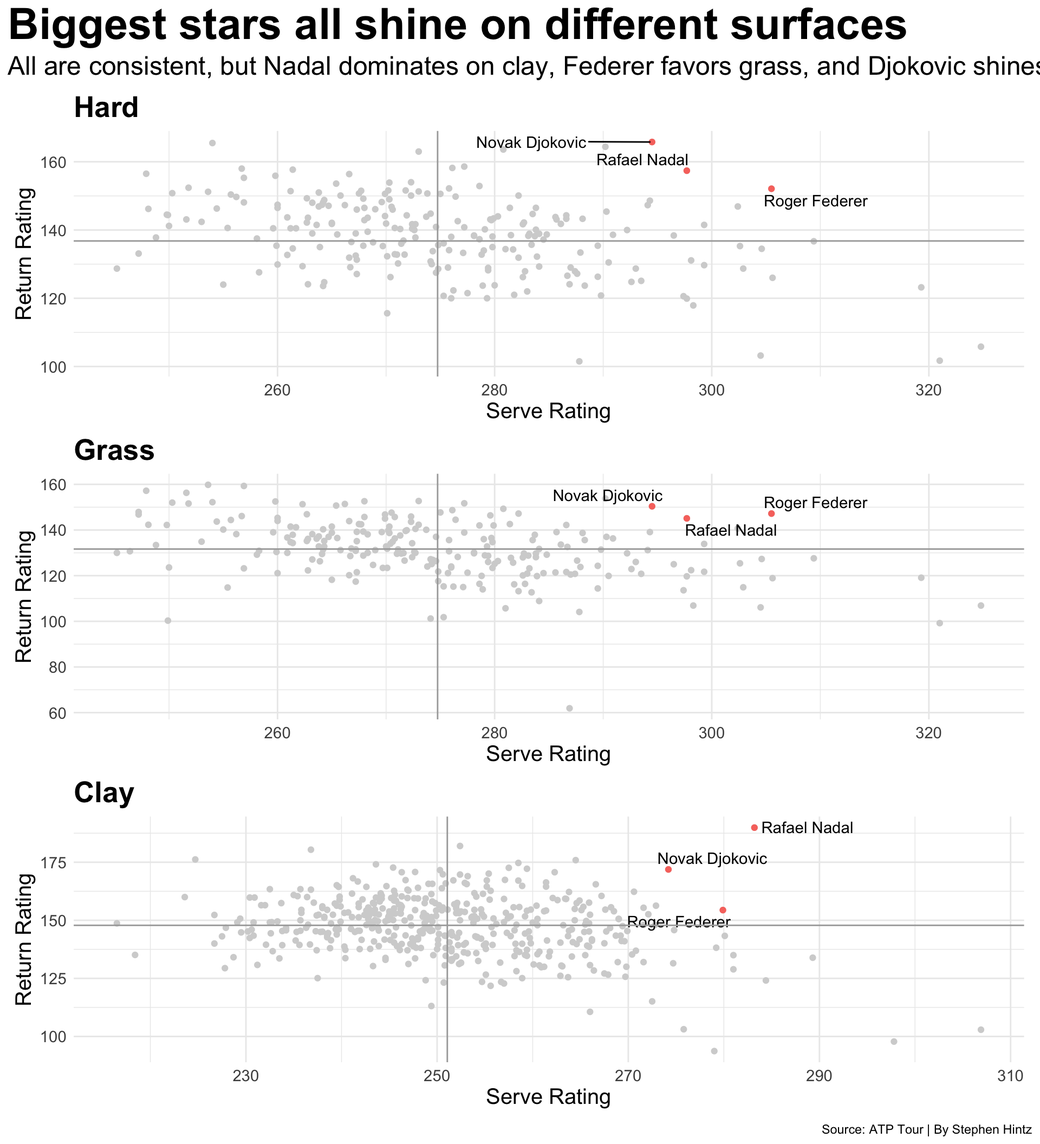
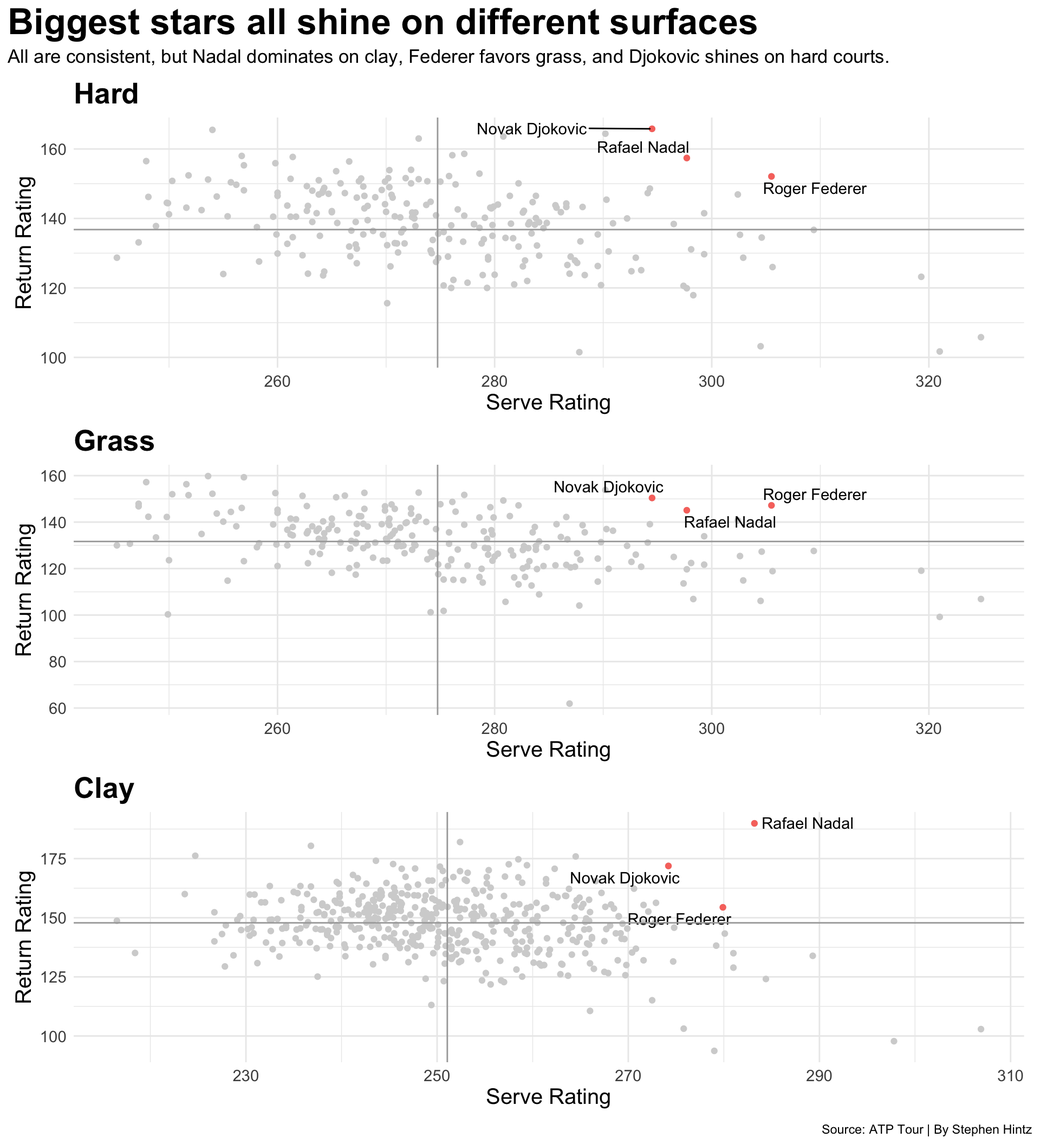
new changes again

diff --git a/2021/04/04/who-is-the-real-tennis-goat/index.html b/2021/04/04/who-is-the-real-tennis-goat/index.html
@@ -77,9 +77,10 @@
 
 
 <p>It’s a question often debated in sports: who’s the “GOAT”?</p>
-<p>So often this prompt is investigated in the context of basketball with LeBron James versus Michael Jordan, or football with Tom Brady or some other historical quarterback. The problem with these? No one will ever know because they never played head-to-head, and never will in their primes.</p>
-<p>That’s why the time we’re living in right now for tennis is so unique. Arguably the three best tennis men’s players of all time are all playing and are only four years apart in age. This scenario opens the door for a productive conversation to find who is truly the greatest men’s tennis player of all time.</p>
-<p>Furthermore, tennis is an individual sport. Often in other “GOAT” discussions, there is the argument that teammates aided in the success of some of the stars. In tennis, it is just the player who does all the work and only gets assistance from the crowd and his/her coach.</p>
+<p>So often this prompt is investigated in the context of basketball with LeBron James versus Michael Jordan, or football with Tom Brady or some other historical quarterback.</p>
+<p>The problem with these? No one will ever know because they never played head-to-head, and never will in their primes.</p>
+<p>Furthermore, tennis is an individual sport. Often in “GOAT” discussions, the argument is that teammates contribute to the success of some players. But tennis is strictly individual which makes it even clearer to study.</p>
+<p>That’s why the time we’re living in right now for tennis is so unique. Arguably the three best men’s tennis players of all time are all playing and are only four years apart in age. This scenario opens the door for a productive conversation to find who is truly the greatest men’s tennis player of all time.</p>
 <p>Here, I will take an in-depth look at the numbers to determine who is the GOAT of men’s tennis.</p>
 <pre class="r"><code>library(tidyverse)</code></pre>
 <pre><code>## ── Attaching packages ─────────────────────────────────────── tidyverse 1.3.0 ──</code></pre>
@@ -147,17 +148,17 @@ library(cowplot)</code></pre>
 ##   AvgReturn
 ##       &lt;dbl&gt;
 ## 1      139.</code></pre>
-<p>I will combine the serve and return ratings into one data set to make a scatterplot so I joined my data set for serve rating and return rating into a set called “servereturn”.</p>
+<p>I will combine the serve and return ratings into one data set to make a scatterplot. I will join my two data sets into a set called ‘servereturn’.</p>
 <pre class="r"><code>servereturn &lt;- returnleadersall %&gt;% left_join(serveleadersall)</code></pre>
 <pre><code>## Joining, by = c(&quot;Player&quot;, &quot;Surface&quot;)</code></pre>
-<p>To separate the ‘Big Three’ from the rest of the pack I will make a list of just Roger Federer, Rafael Nadal, and Novak Djokovic. Then, I’m going to filter out their stats from the list of every player’s serve and return ratings, to help me highlight their excellence.</p>
+<p>To separate the Big Three from everyone else, I will make a list of just Roger Federer, Rafael Nadal, and Novak Djokovic. Then, I’m going to filter out their stats from the list of every player’s serve and return ratings, to help me highlight their excellence.</p>
 <pre class="r"><code>Big3 &lt;- c(&quot;Rafael Nadal&quot;, &quot;Novak Djokovic&quot;, &quot;Roger Federer&quot;)</code></pre>
 <pre class="r"><code>B3 &lt;- servereturn %&gt;% filter(Player %in% Big3)</code></pre>
-<p>I’m interested in looking at where the ‘Big Three’ stand in comparison to everyone else who has their stats in my database. To show this, I’m going to make a scatterplot with every player’s data, and I will highlight only Djokovic, Nadal, and Federer.</p>
-<p>I’m going to put serve rating on the x-axis and return rating on the y-axis. I also want to include the averages I found earlier as the vertical line on the x-axis to represent average serve rating and the horizontal line on the y-axis to represent average return rating.</p>
-<p>Reminder:
-Serve rating=(% 1st Serve Landed, % 1st Serve Points Won, % 2nd Serve Points Won, % Service Games Won + Average Aces per Match - Average Double Faults per Match)
-Return Rating=(% 1st Serve Return Points won + % 2nd Serve Return Points won + % Return Games Won + % Break Points Converted)</p>
+<p>I’m interested in looking at where the ‘Big Three’ stands in comparison to everyone else who has their stats in my database. To show this, I’m going to make a scatterplot with every player’s data, and I will highlight only Djokovic, Nadal, and Federer.</p>
+<p>I’m going to put the serve rating on the x-axis and the return rating on the y-axis. I also want to include the averages I found earlier as the vertical line on the x-axis to represent average serve rating and the horizontal line on the y-axis to represent average return rating.</p>
+<p>Reminder:</p>
+<p>Serve rating = (% 1st Serve Landed, % 1st Serve Points Won, % 2nd Serve Points Won, % Service Games Won + Average Aces per Match - Average Double Faults per Match)</p>
+<p>Return Rating = (% 1st Serve Return Points won + % 2nd Serve Return Points won + % Return Games Won + % Break Points Converted)</p>
 <pre class="r"><code>ggplot() + 
   geom_point(data=servereturn, aes(x=`Serve Rating`, y=`Return Rating`), color=&quot;light grey&quot;) +
   geom_point(data=B3, aes(x=`Serve Rating`, y=`Return Rating`, color= &quot;red&quot;)) +
@@ -184,7 +185,7 @@ Bad Return&quot;), color=&quot;blue&quot;) +
 <p><img src="/2021/04/04/who-is-the-real-tennis-goat/index_files/figure-html/unnamed-chunk-9-1.png" width="672" />
 We see a few important pieces from this chart. The first is that to be a great player, you must have a good serve and return game. There are many players who rank high in either serve or return alone, but they are left out of the “good serve, good return” quadrant because they lack in one area.</p>
 <p>We also see that no one even comes close to the ‘Big Three’ when it comes to both serve and return rating. Federer has the best serve of the three but lacks in return rating compared to Djokovic and Nadal.
-Additionally, Nadal has both a better serve and return than Djokovic does with points out that he is the best all-around player.</p>
+Additionally, Nadal has both a better serve and return than Djokovic does, which points out that he is the best all-around player.</p>
 <p>Now, let’s take a closer look at who ranks in the top 10 all-time in cumulative serve-return rating. I will do this by adding every player’s serve rating and return rating and creating a top 10 list.</p>
 <pre class="r"><code>servereturntop &lt;- servereturn %&gt;% mutate(ServePlusReturn = (`Serve Rating` + `Return Rating`)) %&gt;% top_n(10)</code></pre>
 <pre><code>## Selecting by ServePlusReturn</code></pre>
@@ -194,7 +195,7 @@ Additionally, Nadal has both a better serve and return than Djokovic does with p
     cols = -Player,
     names_to=&quot;Type&quot;, 
     values_to=&quot;Rating&quot;) -&gt; servereturnchart</code></pre>
-<p>I’m interested in seeing how the current three stack up against all-time greats such as Pete Sampras, Andre Agassi, and others, so this top 10 chart will show me the best players based on career statistics on all surfaces.</p>
+<p>I’m interested in seeing how the current three stacks up against all-time greats such as Pete Sampras, Andre Agassi, and others, so this top 10 chart will show me the best players based on career statistics on all surfaces.</p>
 <pre class="r"><code>ggplot(servereturnchart, aes(x=reorder(Player, Rating), weight=Rating, fill=Type)) + 
   geom_bar() + 
   coord_flip() + labs(x=&quot;Player&quot;, y=&quot;Cumulative Serve-Return Rating&quot;, title=&quot;The &#39;Big Three&#39; does it all the best, historically &quot;, subtitle=&quot;Among all-time tennis legends, the &#39;Big Three&#39; sit at the top in \ncumulative serve-return ratings.&quot;, caption=&quot;Source: ATP Tour | By Stephen Hintz&quot;) +
@@ -211,7 +212,8 @@ Additionally, Nadal has both a better serve and return than Djokovic does with p
 <p><img src="/2021/04/04/who-is-the-real-tennis-goat/index_files/figure-html/unnamed-chunk-12-1.png" width="672" />
 Sure enough, we see that the current three take the top three spots all time, with Nadal leading. That helps Nadal’s case for being the best of all time, as we already saw he looked to be the best all-around for the previous graphic.</p>
 <p>Another important thing to note is that a majority of players on this list do not have the most overpowering serves, but they do excel at their return game.</p>
-<p>What’s even more outstanding about the greatness of the Big Three? They are putting up these historical numbers while facing the best competition there ever has been. Half of the players on this list are current players (Juan Martin del Potro, and Andy Murray, in addition to the big three), and Andy Roddick (retired 2012) played against the Big Three for a majority of their careers as well. This means that six of the top 10 players all-time played in the 21st century, so there is no doubt that the level of competition was great enough to consider them the greatest three of all time.</p>
+<p>What’s even more outstanding about the greatness of the Big Three? They are putting up these historical numbers while facing the best competition there has ever been. Half of the players on this list are current players (Juan Martin del Potro, and Andy Murray, in addition to the big three), and Andy Roddick (retired 2012) played against the Big Three for a majority of their careers as well.</p>
+<p>This means that six of the top 10 players all-time played in the 21st century, so there is no doubt that the level of competition was great enough to consider them the greatest three of all time.</p>
 <p>We’ve been looking at the Big Three on all surfaces so far, so let’s shift to looking at different surfaces individually.</p>
 <pre class="r"><code>returnstats &lt;- read_csv(&quot;Career Return Stats - Sheet1-2.csv&quot;)</code></pre>
 <pre><code>## 
@@ -239,7 +241,7 @@ Sure enough, we see that the current three take the top three spots all time, wi
 ##   `Avg Double Faults/Match` = col_character(),
 ##   Surface = col_character()
 ## )</code></pre>
-<p>To separate the different surfaces, I want to get the serve and return stats for every player in the data sets on each individual surface.</p>
+<p>To separate the different surfaces, I want to get the serve and return stats for every player on each individual surface.</p>
 <pre class="r"><code>servestats %&gt;%  mutate(`Serve Rating` = as.numeric(`Serve Rating`)) %&gt;% filter(Surface==&quot;Grass&quot;) %&gt;% na.omit() -&gt; serveleadersgrass</code></pre>
 <pre><code>## Warning: Problem with `mutate()` input `Serve Rating`.
 ## ℹ NAs introduced by coercion
@@ -264,18 +266,18 @@ Sure enough, we see that the current three take the top three spots all time, wi
 <pre><code>## Warning: Problem with `mutate()` input `Return Rating`.
 ## ℹ NAs introduced by coercion
 ## ℹ Input `Return Rating` is `as.numeric(`Return Rating`)`.</code></pre>
-<p>Then using the code that I just data that I just pulled for each surface, I want combine the serve and return stats for each individual surface to show me each players serve and return for that surface alone.</p>
+<p>Then using the data that I pulled for each surface, I want to combine the serve and return stats for each individual surface to show me each player’s serve and return for that surface alone.</p>
 <pre class="r"><code>servereturnhard &lt;- returnleadershard %&gt;% left_join(serveleadershard)</code></pre>
 <pre><code>## Joining, by = c(&quot;Player&quot;, &quot;Surface&quot;)</code></pre>
 <pre class="r"><code>servereturnclay &lt;- returnleadersclay %&gt;% left_join(serveleadersclay)</code></pre>
 <pre><code>## Joining, by = c(&quot;Player&quot;, &quot;Surface&quot;)</code></pre>
 <pre class="r"><code>servereturngrass &lt;- returnleadersgrass %&gt;% left_join(serveleadersgrass)</code></pre>
 <pre><code>## Joining, by = c(&quot;Player&quot;, &quot;Surface&quot;)</code></pre>
-<p>Like we saw earlier, I want to have the players in the Big Three highlighted so I will make a separate data frame filtering them out so that I am able to highlight them on the graphic..</p>
+<p>Like we saw earlier, I want to have the players in the Big Three highlighted so I will make a separate data frame filtering them out so that I am able to highlight them on the graphic.</p>
 <pre class="r"><code>B3Clay &lt;- servereturnclay %&gt;% filter(Player %in% Big3)
 B3Grass &lt;- servereturngrass %&gt;% filter(Player %in% Big3)
 B3Hard &lt;- servereturnhard %&gt;% filter(Player %in% Big3)</code></pre>
-<p>To find the average serve and return rating on each surface, I find the mean of all of the players. Once again, I will be using these averages for later.</p>
+<p>To find the average serve and return rating on each surface, I find the mean of all of the players. Once again, I will be using these averages later.</p>
 <pre class="r"><code>serveleadersgrass %&gt;% summarise(AvgServe = mean(`Serve Rating`))</code></pre>
 <pre><code>## # A tibble: 1 x 1
 ##   AvgServe
@@ -344,13 +346,13 @@ I will highlight the Big Three again on each graph to show where they rank in co
     axis.text = element_text(size = 11),
     legend.position = &quot;none&quot;
     ) </code></pre>
-<p>I have all three graphs, one for each surface, that will be compiled to make the facet wrap. This facet wrap will show each player’s strengths and/or weaknesses dependent on different surfaces and we will be able to draw further conclusion with that finding.</p>
+<p>I have all three graphs, one for each surface, that will be compiled to make the facet wrap. This facet wrap will show each player’s strengths and/or weaknesses dependent on different surfaces and we will be able to draw further conclusions with that finding.</p>
 <pre class="r"><code>plot_grid(Hard, Grass, Clay, ncol=1) + labs(title=&quot;Biggest stars all shine on different surfaces&quot;, subtitle = &quot;All are consistent, but Nadal dominates on clay, Federer favors grass, and Djokovic shines on hard courts.&quot;, caption = &quot;Source: ATP Tour | By Stephen Hintz&quot;) + 
   theme_minimal() +
   theme(
-    plot.title = element_text(size = 30, face = &quot;bold&quot;),
+    plot.title = element_text(size = 25, face = &quot;bold&quot;),
     axis.title = element_text(size = 15),
-    plot.subtitle = element_text(size = 18),
+    plot.subtitle = element_text(size = 13),
     axis.text = element_text(size = 9),
     axis.ticks = element_blank(),
     panel.grid.minor = element_blank(),
@@ -359,11 +361,11 @@ I will highlight the Big Three again on each graph to show where they rank in co
     )</code></pre>
 <pre><code>## Warning: Removed 303 rows containing missing values (geom_point).</code></pre>
 <p><img src="/2021/04/04/who-is-the-real-tennis-goat/index_files/figure-html/unnamed-chunk-28-1.png" width="960" /></p>
-<p>To no surprise to the avid tennis fan, we see that each has their strength, and all three have a different favored surface to play on.</p>
-<p>Djokovic, not the most overpowering server, performs the best on hard as that is the surface that he ranks highest in serve and also performs really well in the return game.</p>
+<p>From the initial examination, we see that all three have a different surface they flourish on.</p>
+<p>Djokovic, not the most overpowering server, performs the best on hard. He ranks highest personally in serve rating and also does really well in the return game on hard courts.</p>
 <p>Federer, whose strength is more his serve rather than his return, performs on par with Nadal and Djokovic on his return on grass surfaces. Federer also serves the best on grass surfaces.</p>
-<p>Rafael Nadal is sometimes referred to as the “King of Clay” and for good reason. He blows the other two out of the water when it comes to his performance on clay as he has a staggering return rating of 190 when playing on clay. In addition to that, he even has a better serve rating than Federer and Djokovic on clay.</p>
-<p>What adds to the uniqueness of this debate for who is the greatest is that not one of them share a most dominant surface. They are extraordinarily consistent, and consistently extraordinary, which still begs the question: which of the three is the greatest?</p>
+<p>Rafael Nadal is sometimes referred to as the “King of Clay” and for good reason. He blows the other two out of the water when it comes to his performance on clay as he has a staggering return rating of around 190 when playing on clay. In addition to that, he even has a better serve rating than Federer and Djokovic on clay.</p>
+<p>What adds to the uniqueness of this debate for who is the greatest is that not one of them shares a most dominant surface. They are extraordinarily consistent, and consistently extraordinary, which still begs the question: which of the three is the greatest?</p>
 <p>We’ve looked at each player’s ratings, but let’s look further into arguably the most important stat, wins and losses.</p>
 <pre class="r"><code>menstitles &lt;- read_csv(&quot;HeadtoHead - three.csv&quot;)</code></pre>
 <pre><code>## 
@@ -374,7 +376,8 @@ I will highlight the Big Three again on each graph to show where they rank in co
 ##   `Rafael Nadal` = col_character(),
 ##   `Novak Djokovic` = col_character()
 ## )</code></pre>
-<p>I will create a table that shows each players record versus each other in head-to-head matchups and separate it by surface as well. To do this, I first have to use my data set with each of the three players records versus one another, and then configure it to show the breakdown. For an aesthetically pleasing visual appearance, I also am going to highlight each row that shows the opposing players overall record versus the selected player.</p>
+<p>I will create a table that shows each player’s record versus each other in head-to-head matchups and separate it by surface as well. To do this, I first have to use my data set with each of the three players records versus one another, and then configure it to show the breakdown.</p>
+<p>For an aesthetically pleasing visual appearance, I also am going to highlight each row that shows the opposing player’s overall record versus the selected player.</p>
 <pre class="r"><code>Big3Titles &lt;- menstitles %&gt;%
   pivot_wider()</code></pre>
 <pre class="r"><code>Big3Titles %&gt;% pivot_wider %&gt;% kable() %&gt;% 
@@ -385,10 +388,11 @@ row_spec(9, bold = T, color = &quot;white&quot;, background = &quot;#0C4076&quot
     column_spec(1, bold=T) %&gt;% save_kable(&quot;HeadtoHead.pdf&quot;)</code></pre>
 <p><img src="images/HeadtoHead.png" style="width:100.0%;height:100.0%" /></p>
 <p>The breakdown of records is pretty consistent with the facet wrap from above.</p>
-<p>As expected, Nadal, dominates both Federer and Djokovic on clay courts. Djokovic also has a winning record against both Nadal and Federer.</p>
-<p>The one exception to what we saw above is that Federer has a losing record against Djokovic on grass courts, but it is a small sample size.</p>
-<p>The set up of the ATP tour works against Federer because grass courts are the rarest of the three surfaces to be played on, with clay being the next least played-on court.</p>
-<p>Regardless, all three have decently close records versus each other but Djokovic owns the matchup versus both Nadal and Federer, which is important in the greatest of all time conversation.</p>
+<p>As expected, Nadal dominates both Federer and Djokovic on clay courts.</p>
+<p>Djokovic a winning record on hard courts versus those two, which are driven by 20 wins a piece against them.</p>
+<p>The one exception to what we saw in the facet wrap above is that Federer has a losing record against Djokovic on grass courts, but it is a small sample size.</p>
+<p>The setup of the ATP tour works against Federer because grass courts are the rarest of the three surfaces to be played on, with clay being the next least played-on court.</p>
+<p>Regardless, all three have decently close records versus each other but Djokovic owns the matchup versus both Nadal and Federer, which is important in the greatest of all-time conversation.</p>
 <p>There’s one last thing that we have yet to cover, and it is pretty substantial. Championships.</p>
 <pre class="r"><code>menstitles &lt;- read_csv(&quot;Men&#39;s Titles - Sheet1.csv&quot;)</code></pre>
 <pre><code>## 
@@ -410,11 +414,11 @@ row_spec(9, bold = T, color = &quot;white&quot;, background = &quot;#0C4076&quot
 ##   OlympicGold = col_double()
 ## )
 ## ℹ Use `spec()` for the full column specifications.</code></pre>
-<p>Using data from the ATP tour’s site, I have will make a bar chart comparing how many grand slam titles and olympic medals each of the three have, in the style of a facet wrap. This breakdown will just include the Big Three and for a readable graph, I will abbreviate some of the names, as shown below:
-AUS = Australian Open
-US = US Open
-French = FrenchOpen
-Wimbledon = Championships at Wimbledon</p>
+<p>Using data from the ATP tour’s site, I will make a bar chart comparing how many grand slam titles and Olympic medals each of the three have, in the style of a facet wrap. This breakdown will just include the Big Three and for a readable graph, I will abbreviate some of the grand slam names, as shown below:</p>
+<p>AUS = Australian Open</p>
+<p>US = US Open</p>
+<p>French = FrenchOpen</p>
+<p>Wimbledon = Championships at Wimbledon</p>
 <pre class="r"><code>champs &lt;- menstitles %&gt;%
   filter(Player == &quot;Rafael Nadal&quot; | Player == &quot;Roger Federer&quot; | Player == &quot;Novak Djokovic&quot;) %&gt;%
   select(Player, Wimbledon, AustralianOpen, USOpen, FrenchOpen, OlympicGold) %&gt;%
@@ -424,7 +428,7 @@ Wimbledon = Championships at Wimbledon</p>
     names_to = &quot;Slams&quot;,
     values_to = &quot;Wins&quot;
   )</code></pre>
-<p>The bars representing each grand slam will be color coded to match the look of the surface. This means both the Australian Open and US Open will be a shade of blue for hard court, the French Open will be a burnt orange for clay, and the Championships at Wimbledon will be green for grass.</p>
+<p>The bars representing each grand slam will be color-coded to match the look of the surface. This means both the Australian Open and US Open will be a shade of blue for hard court, the French Open will be a burnt orange for clay, and the Championships at Wimbledon will be green for grass.</p>
 <p>Also, due to space constraints, Olympic medals are scaled at a value of gold medals equaling one, silver as a half, and bronze as a quarter.</p>
 <pre class="r"><code>ggplot() + geom_bar(data=champs, aes(x=Slams, weight=Wins, fill=Slams)) + facet_wrap(~Player) + scale_fill_manual(values=c(&quot;#377DB8&quot;, &quot;#CB5223&quot;, &quot;dark grey&quot;, &quot;#00288b&quot;, &quot;#007b22&quot; )) + theme(axis.text = element_text(size=10)) + 
   labs(y=&quot;Titles&quot;, title=&quot;Who gets it done on the biggest stage?&quot;, subtitle = &quot;Nadal owns the French Open, Federer the Wimbledon Classic, and Djokovic the Australian Open. \nAll have an olympic medal, but Nadal is the only player to have multiple majors on all surfaces.&quot;, caption = &quot;Source: ATP Tour | By Stephen Hintz&quot;) + 
@@ -445,12 +449,12 @@ Wimbledon = Championships at Wimbledon</p>
 <p>And to no one’s surprise, Nadal has an absurd 13 French Open titles. He is also the only player of the three to win multiple grand slams on each surface. To go along with that, he also is the only one of the three to have an Olympic Gold Medal.</p>
 <p>So, where does all of this leave us?</p>
 <p>We’ve looked at the stats on each player’s ratings and how they stack up compared to all other players in the modern era, and we’ve determined that no one else comes close to the greatness of the Big Three.</p>
-<p>We also ranked the top ten serve-return rated players of all time and seen that the Big Three top that list, and have played against some of the toughest competetion. It also indicated that Nadal was the best of the three when it came to all surfaces.</p>
+<p>We also ranked the top ten serve-return rated players of all time and seen that the Big Three tops that list, and have played against some of the toughest competition ever. It also indicated that Nadal was the best of the three when it came to all surfaces.</p>
 <p>Then we looked at each player’s performance on different surfaces and were able to make the determination that each player is consistently excellent on all surfaces, but each player has their own specialty surface in which they dominate.</p>
 <p>Looking at head-to-head matchups, we saw that all the matchups between the three players were tight, but Djokovic was the only one to have a winning record against both Nadal and Federer, giving him a leg up in that regard.</p>
-<p>Finally, we looked at championships and were able to see that Nadal and Federer led overall in total titles, but that Federer had been playing longer so it made more sense that he would have the most of the three. Nadal on the other hand, has been playing for just two years more than Djokovic but had two more titles, and an Olympic gold medal, giving him the advantage there.</p>
-<p>Which leads to the determination, with the information we found, Rafael Nadal is the GOAT…at least for now. Each one of the three still has years left on their career and it will be an intriguing race to see who has the most titles when it is all said and done.</p>
-<p>For right now, Nadal takes the title of the greatest tennis player of all time. But like so often in tennis, no lead is ever safe, especially when you’re playing Djokovic or Federer.</p>
+<p>Finally, we looked at major titles and were able to see that Nadal and Federer led overall in total titles, but that Federer had been playing longer so it made more sense that he would have the most of the three. Nadal, on the other hand, has been playing for just two years more than Djokovic but had two more titles, and an Olympic gold medal, giving him the advantage there.</p>
+<p>This leads to the determination, with the information we found, that Rafael Nadal is the GOAT…at least for now. Each one of the three still has years left on their career and it will be an intriguing race to see who has the most titles when it is all said and done.</p>
+<p>For right now, Nadal takes the title of the greatest tennis player of all time. But like so often in tennis, no lead is safe, especially when you’re playing Djokovic or Federer.</p>
 
     </div>
   </article>
